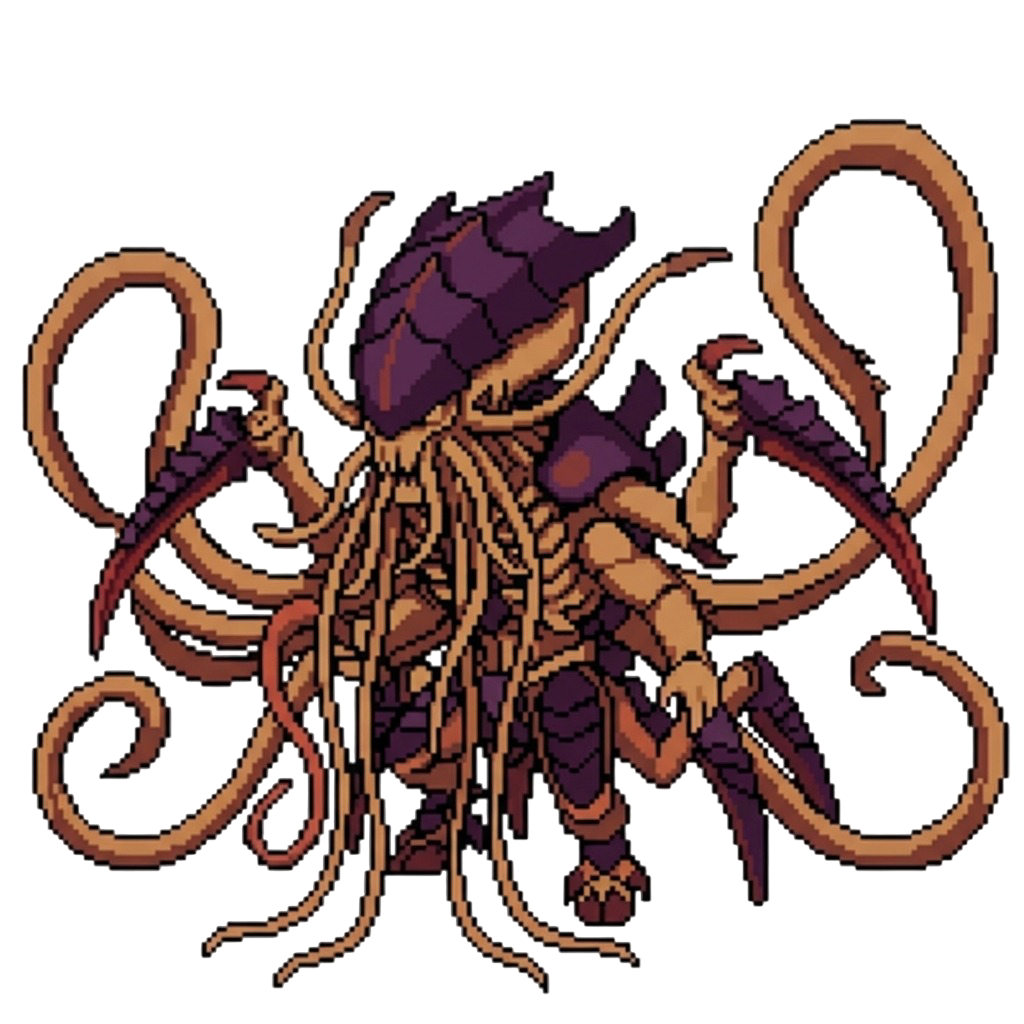
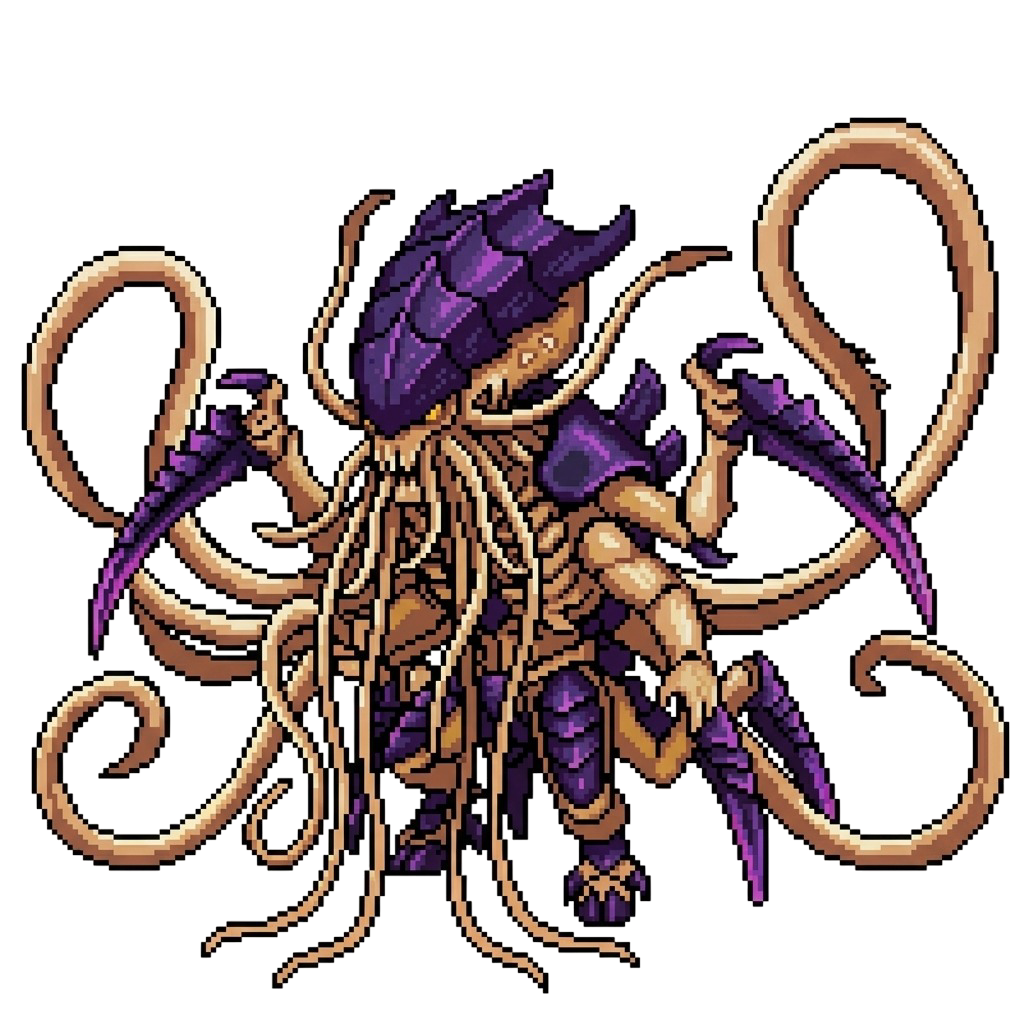
Añadido Sprite Vindicare y cambios otros sprites

Changed region(s): [[0.0, 0.0938, 1.0, 0.9688]]

diff --git a/ARCHON_WARHAMMER 40K/src/ClaseArcher.cpp b/ARCHON_WARHAMMER 40K/src/ClaseArcher.cpp
@@ -160,7 +160,7 @@ void ClaseArcher::dibujar(sf::RenderWindow& window, Estado estadoActual) {
     if (estadoActual == Estado::Tablero) {
         this->sincronizarPosicionTablero();
 
-        if (this->stats.nombre == "FALTA" || this->stats.nombre == "LICTOR") {
+        if (this->stats.nombre == "VINDICARE" || this->stats.nombre == "LICTOR") {
 
             //CÍRCULO DE SELECCIÓN AMARILLO
             if (seleccionado) {
@@ -190,7 +190,7 @@ void ClaseArcher::dibujar(sf::RenderWindow& window, Estado estadoActual) {
         }
     }
     else if (estadoActual == Estado::Arena) {
-        if (this->stats.nombre == "FALTA" || this->stats.nombre == "LICTOR") {
+        if (this->stats.nombre == "VINDICARE" || this->stats.nombre == "LICTOR") {
             spriteArena.setPosition(posicionAbsoluta);
             window.draw(spriteArena);
         }

diff --git a/ARCHON_WARHAMMER 40K/src/ClaseUnicornio.cpp b/ARCHON_WARHAMMER 40K/src/ClaseUnicornio.cpp
@@ -85,7 +85,7 @@ void ClaseUnicornio::animar(float dt, sf::Vector2f direccion) {
         //FOTOGRAMA DE ATAQUE 
         fila = 1;
         colInicial = 1;
-        colFinal = 2;
+        colFinal = 1;
     }
     else if (direccion.x != 0) {
         //FOTOGRAMA DE CAMINAR LATERAL 
